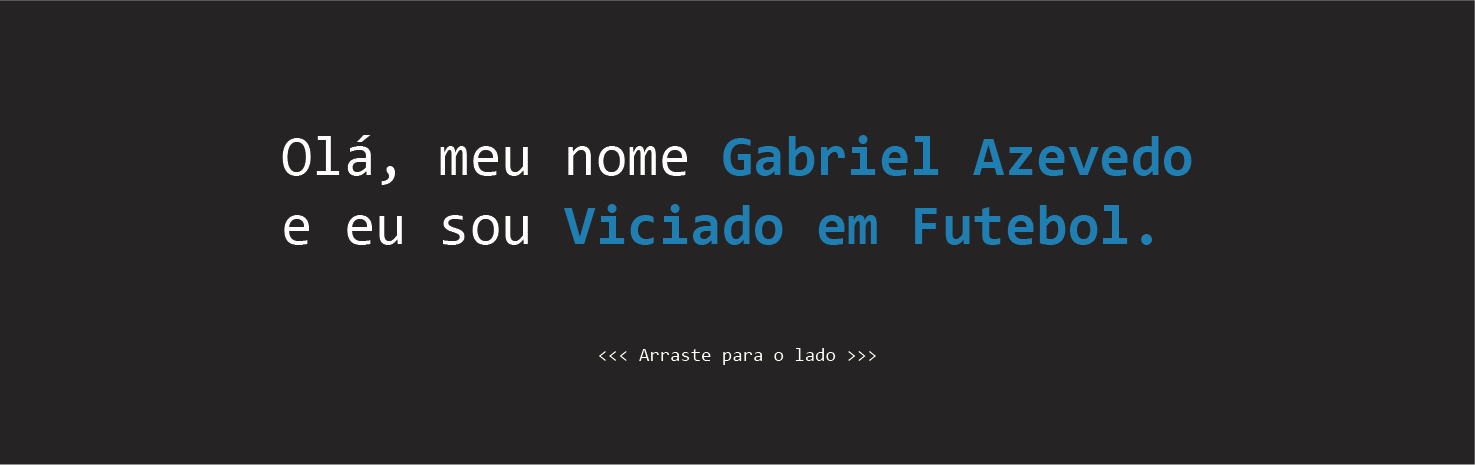
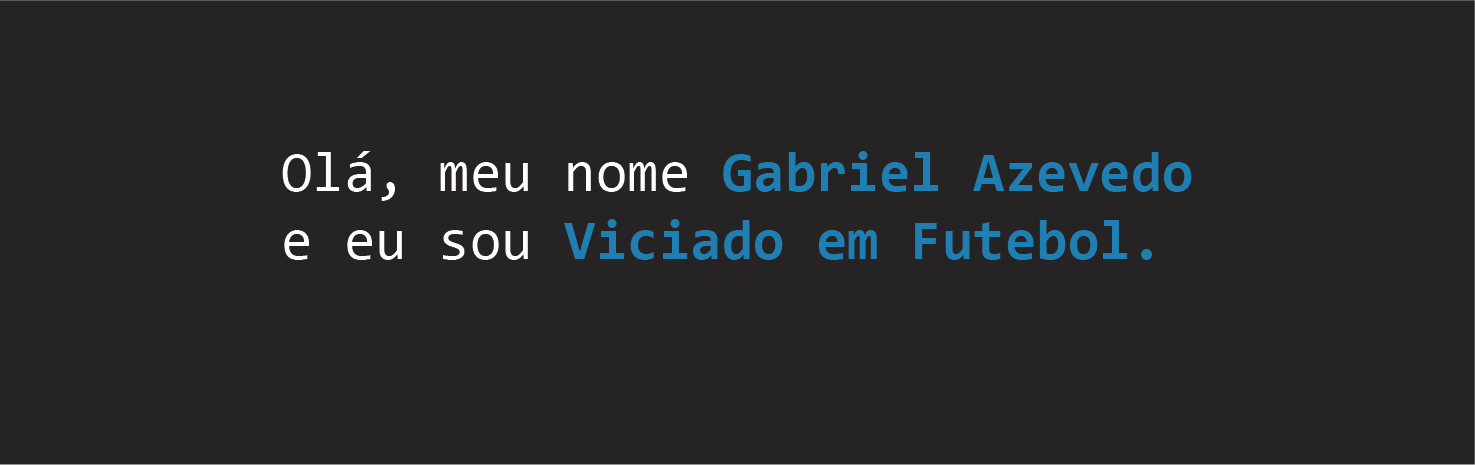
Slider Pronto

Changed region(s): [[0.1871, 0.271, 0.8108, 0.572], [0.4054, 0.7527, 0.5925, 0.7828]]

diff --git a/css/main.css b/css/main.css
@@ -96,6 +96,7 @@ position: absolute;
 background-image: url('../img/setaanterior.png');
 top: 54%;
 left: 6%;
+outline: none;
 }
 button.slick-next {
 font-size: 0px;
@@ -108,25 +109,35 @@ position: absolute;
 background-image: url('../img/setaproximo.png');
 top: 54%;
 right: 6%;
-}
-.slider-principal {
-width: 100%!important;
-}
-ul.slick-dots li button {
-display: inline-block;
-font-size: 0px;
-border: 3px solid #1B7FB8;
-border-radius: 50%;
-width: 20px;
-height: 20px;   
-}
-ul.slick-dots li.slick-active {
-background-color: #1B7FB8;
+outline: none;
 }
 .slick-list {
-    width: 100%!important;
+width: 100%!important;
 }
 .slick-initialized {
-    overflow: hidden;
-    width: auto;
+overflow: hidden;
+}
+.slick-dots li button {
+font-size: 0px;
+border: 5px solid #ffffff;
+width: 26px;
+height: 26px;
+background: transparent;
+border-radius: 50%;
+cursor: pointer;
+outline: none;
+}
+.slick-dots {
+margin: 0 auto;
+width: 50%;
+position: absolute;
+left: 42.7%;
+top: 90%;
+}
+li.slick-active button {
+background: #1B7FB8;
+}
+.slick-dots li {
+display: inline-block;
+padding-left: 10px;
 }
